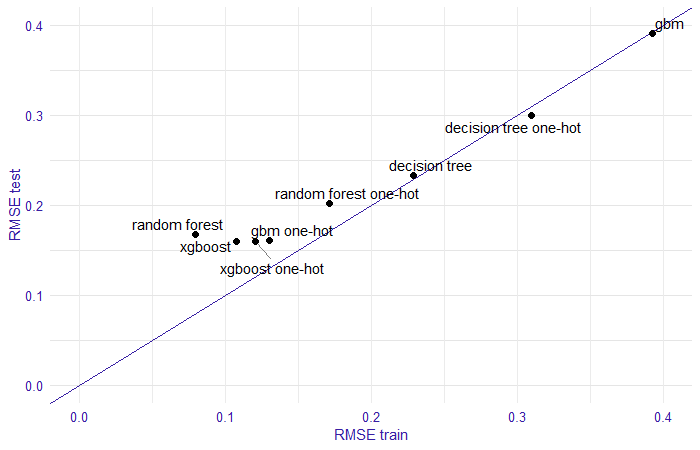
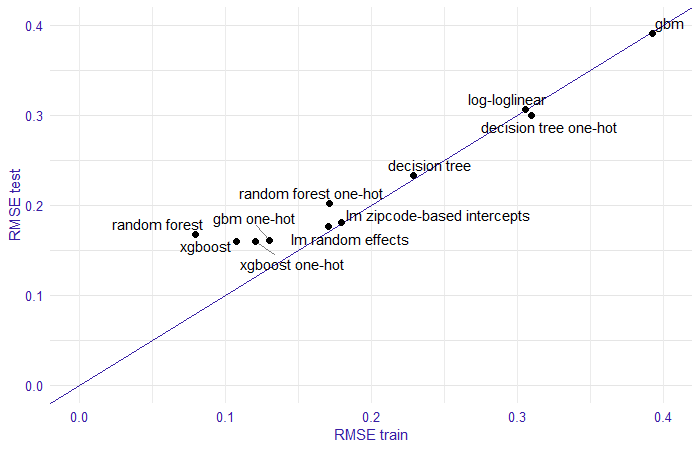
add rmse score for linear models

Changed region(s): [[0.15, 0.3422, 0.75, 0.6222], [0.63, 0.1867, 0.9, 0.3111]]

diff --git a/Models/PredictiveModels/README.md b/Models/PredictiveModels/README.md
@@ -13,7 +13,9 @@
 |gbm one-hot|[link](https://github.com/kozaka93/InterpretableHouseSalePrices/tree/master/Models/PredictiveModels/mlr/gbm_onehot) | `n.trees` = 898, `interaction.depth` = 6|
 |random forest one-hot|[link](https://github.com/kozaka93/InterpretableHouseSalePrices/tree/master/Models/PredictiveModels/mlr/randomforest_onehot)|`num.trees` = 155, `mtry` = 4, `min.node.size` = 1|
 |decision tree one-hot|[link](https://github.com/kozaka93/InterpretableHouseSalePrices/tree/master/Models/PredictiveModels/mlr/decisionTree_onehot)|`minsplit` = 35, `minbucket` = 9, `cp` = 0.0167|
-|lm |[link](https://github.com/kozaka93/InterpretableHouseSalePrices/tree/master/Models/PredictiveModels/mlr/lm_onehot)|-|
+|lm |[link](https://github.com/kozaka93/InterpretableHouseSalePrices/tree/master/Models/PredictiveModels/LinearModels)|log-loglinear|
+|lm||[link](https://github.com/kozaka93/InterpretableHouseSalePrices/tree/master/Models/PredictiveModels/LinearModels)|zipcode-based intercepts|
+|lm|[link](https://github.com/kozaka93/InterpretableHouseSalePrices/tree/master/Models/PredictiveModels/LinearModels)|random effects|
 
 
 

diff --git a/Models/ModelAssessment/README.md b/Models/ModelAssessment/README.md
@@ -13,7 +13,9 @@
 |gbm one-hot|0.1302585 | 0.1607376 | `n.trees` = 898, `interaction.depth` = 6|
 |random forest one-hot|0.1713819|0.2022199|`num.trees` = 155, `mtry` = 4, `min.node.size` = 1|
 |decision tree one-hot|0.3097931|0.2995141|`minsplit` = 35, `minbucket` = 9, `cp` = 0.0167|
-|lm |0.1829931 |0.1857949|-|
+|lm |0.3054077  |0.3060932 |log-loglinear|
+|lm|0.1796654 |0.1809925|zipcode-based intercepts|
+|lm|0.1707303 | 0.1761779 |random effects|
 
 
 ###  Residuals
